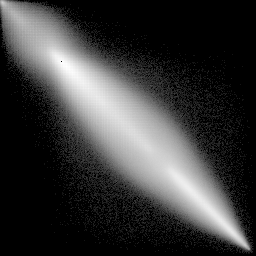
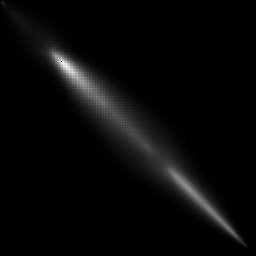
Add sun.

diff --git a/laba8/README.md b/laba8/README.md
@@ -1,5 +1,5 @@
 # Лабораторная работа №8. Текстурный анализ и контрастирование.
-- Параметры матрицы Харалика: d = 2, $varphi$ = {0, 90, 180, 270}
+- Параметры матрицы Харалика: d = 2, $phi$ = {0, 90, 180, 270}
 - Расчет признаков CON и LUN
 - Логарифмическое контрастирование
 - Матрицы Харалика(логарифмической нормировки) для полутоновых и контрастированных изображений
@@ -82,23 +82,23 @@ LUN (contrasted): 408.7027770180322
 ![](results/haralik/sun.png)
 
 ### Признаки
-CON: 4327570547.612032
+CON: 97768871.89628883
 
-LUN: 165317.4594786556
+LUN: 64092.08477542071
 
 ### Гистограммы
 ![](results/histograms/sun.png)
 
-### Констрастированное изображение
+### Констрастированное изображение (L = 7)
 ![](results/contrasted/sun.png)
 
 ### Матрица Харалика для контрастированного изображения
 ![](results/haralik_contrasted/sun.png)
 
 ### Контрастированные признаки
-CON (contrasted): 1804324359.0667858
+CON (contrasted): 118477364.31172077
 
-LUN (contrasted): 43712.17659640474
+LUN (contrasted): 13870.39446402004
 
 ## Выводы
-Логарифмическое контрастирование обычно уменьшает яркость изображения в целом, а так же иногда может помочь выделить текстуры объектов, несильно отличающихся по яркости. Матрица Харалика при этом меняется; параметр CON, как правило, уменьшается и параметр LUN тоже.
+Логарифмическое контрастирование обычно уменьшает яркость изображения в целом, а так же иногда может помочь выделить текстуры объектов, несильно отличающихся по яркости. Матрица Харалика при этом меняется; параметр CON (контрастность), как правило, увеличивается, а параметр LUN (линейная однородность) уменьшается.
